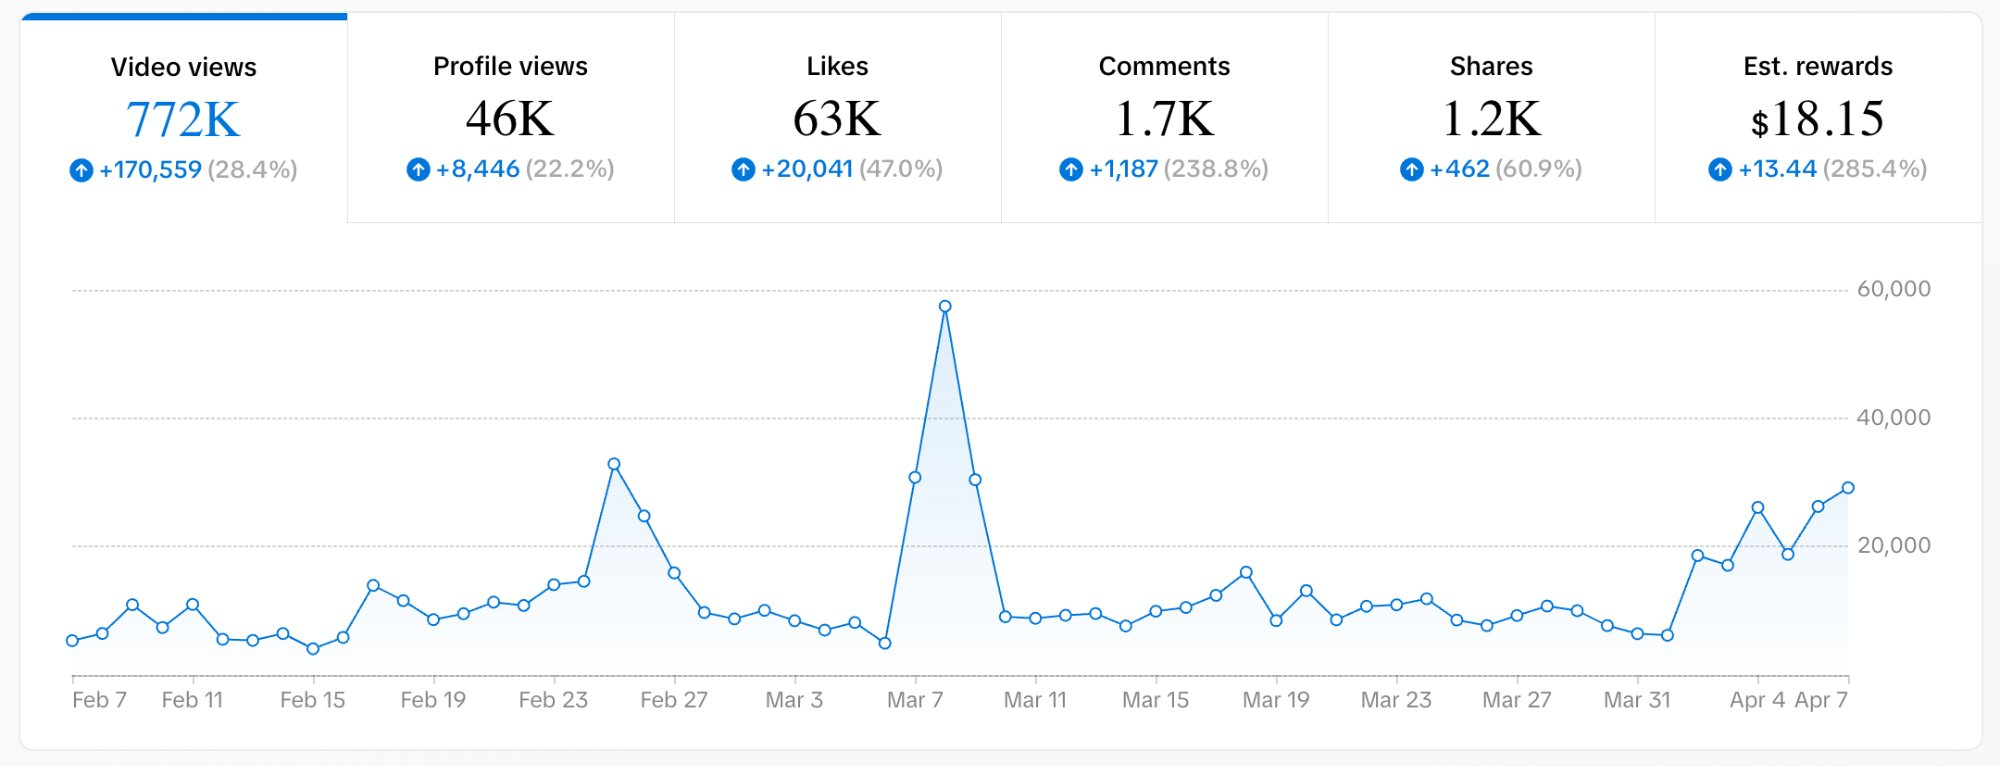
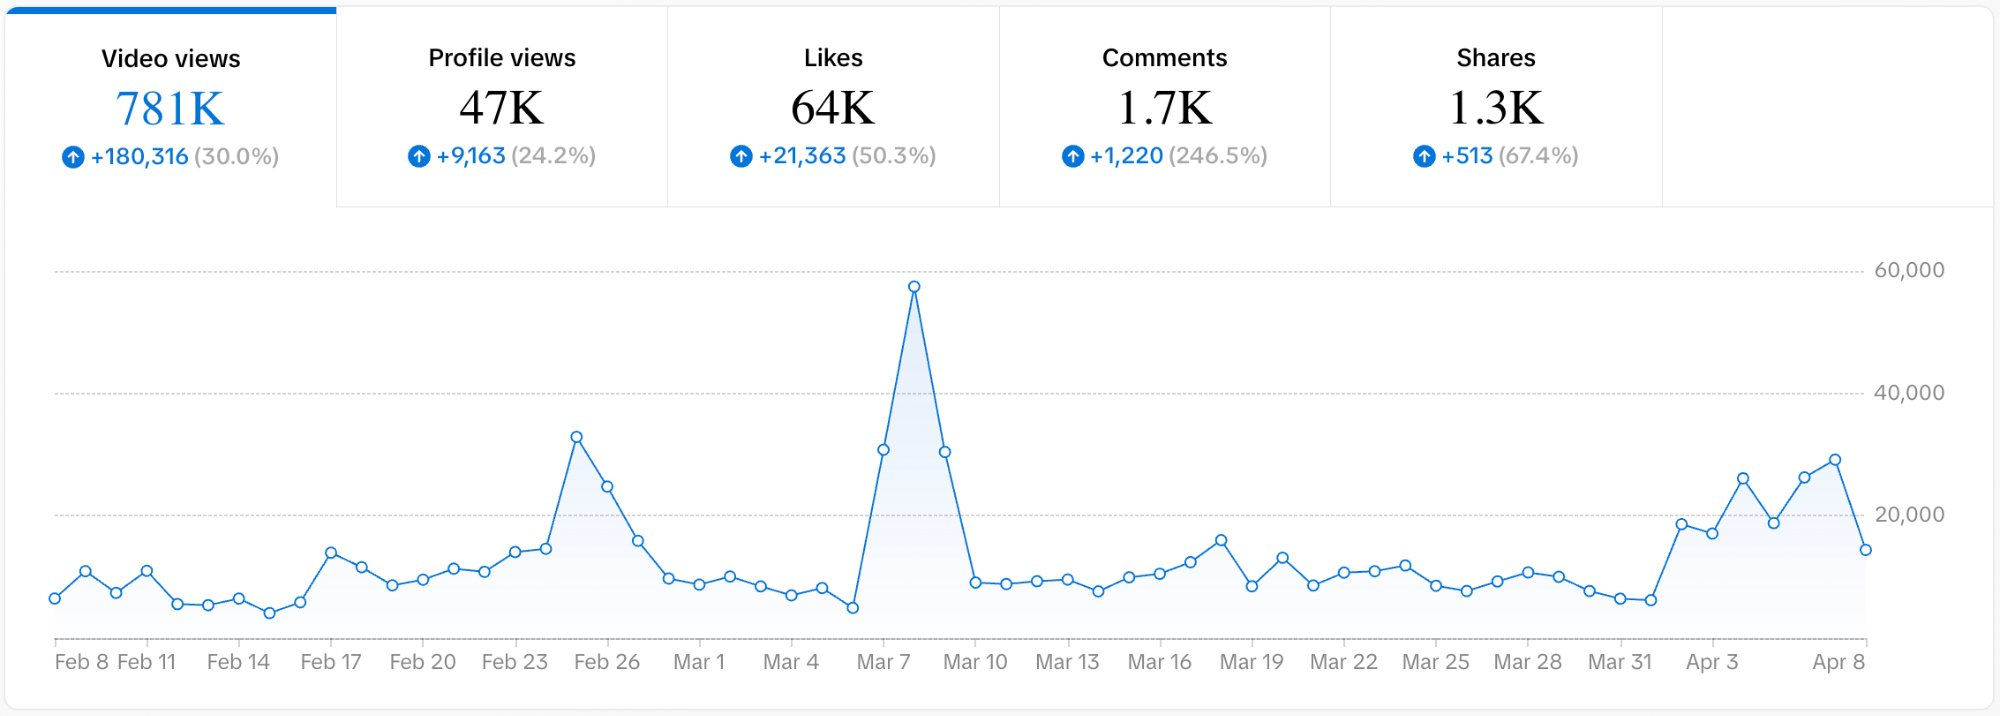
Add files via upload

diff --git a/strategy.html b/strategy.html
@@ -102,7 +102,7 @@
         <div class="platform-name">TikTok</div>
       </div>
       <div class="platform-icon-group">
-        <div class="platform-badge">Feb 7 – Apr 7, 2026</div>
+        <div class="platform-badge">Feb 8 – Apr 8, 2026</div>
         <div class="platform-icon">
           <svg viewBox="0 0 24 24" fill="currentColor">
             <path d="M19.59 6.69a4.83 4.83 0 0 1-3.77-4.25V2h-3.45v13.67a2.89 2.89 0 0 1-2.88 2.5 2.89 2.89 0 0 1-2.89-2.89 2.89 2.89 0 0 1 2.89-2.89c.28 0 .54.04.79.1V9.01a6.33 6.33 0 0 0-.79-.05 6.34 6.34 0 0 0-6.34 6.34 6.34 6.34 0 0 0 6.34 6.34 6.34 6.34 0 0 0 6.33-6.34V8.69a8.18 8.18 0 0 0 4.78 1.52V6.76a4.85 4.85 0 0 1-1.01-.07z"/>
@@ -113,34 +113,34 @@
 
     <div class="kpi-grid">
       <div class="kpi-card">
-        <span class="kpi-value">772K</span>
+        <span class="kpi-value">781K</span>
         <span class="kpi-label">Video Views</span>
-        <span class="kpi-change">+170,559 · +28.4%</span>
+        <span class="kpi-change">+180,316 · +30%</span>
         <span class="kpi-period">60-day period</span>
       </div>
       <div class="kpi-card">
-        <span class="kpi-value">46K</span>
+        <span class="kpi-value">47K</span>
         <span class="kpi-label">Profile Views</span>
-        <span class="kpi-change">+8,446 · +22.2%</span>
+        <span class="kpi-change">+9,163 · +24.2%</span>
         <span class="kpi-period">60-day period</span>
       </div>
       <div class="kpi-card">
-        <span class="kpi-value">63K</span>
+        <span class="kpi-value">64K</span>
         <span class="kpi-label">Likes</span>
-        <span class="kpi-change">+20,041 · +47%</span>
+        <span class="kpi-change">+21,363 · +50.3%</span>
         <span class="kpi-period">60-day period</span>
       </div>
       <div class="kpi-card">
-        <span class="kpi-value">1.2K</span>
+        <span class="kpi-value">1.3K</span>
         <span class="kpi-label">Shares</span>
-        <span class="kpi-change">+462 · +60.9%</span>
+        <span class="kpi-change">+513 · +67.4%</span>
         <span class="kpi-period">60-day period</span>
       </div>
     </div>
 
     <!-- Last 30 day callout -->
     <div class="platform-insight">
-      <strong>Last 30 days (Mar 9 – Apr 7) —</strong> 156,196 total views with 111,021 accounts reached (+4,203.1% growth in reach). 95.8% of views came from non-followers, demonstrating strong organic discovery and content that resonates well beyond an existing audience.
+      <strong>Last 30 days (Mar 9 – Apr 7) —</strong> 781K total video views with likes up 50.3% and shares up 67.4% — content is being actively saved and shared beyond the existing audience. Profile views hit 47K (+24.2%), showing strong top-of-funnel discovery.
     </div>
 
     <div class="platform-graphs">
@@ -151,17 +151,17 @@
         <div class="graph-info">
           <div class="graph-label">60-Day Overview</div>
           <div class="graph-title">Video views, likes, comments & shares</div>
-          <div class="graph-note">Feb 7 – Apr 7, 2026 · TikTok Studio Analytics</div>
+          <div class="graph-note">Feb 8 – Apr 8, 2026 · TikTok Studio Analytics</div>
         </div>
       </div>
       <div class="graph-card">
         <div class="graph-img">
-          <img src="images/tiktok-views.jpg" alt="TikTok last 30 days: 156,196 views, 111,021 accounts reached">
+          <img src="images/tiktok-analytics.png" alt="TikTok video views trend Feb 8 – Apr 8, 2026">
         </div>
         <div class="graph-info">
-          <div class="graph-label">Last 30 Days · Views Breakdown</div>
-          <div class="graph-title">156,196 views · 111,021 accounts reached</div>
-          <div class="graph-note">Mar 9 – Apr 7, 2026 · 95.8% non-follower reach</div>
+          <div class="graph-label">60-Day Trend</div>
+          <div class="graph-title">Daily video view trend — Feb 8 to Apr 8</div>
+          <div class="graph-note">Feb 8 – Apr 8, 2026 · TikTok Studio</div>
         </div>
       </div>
     </div>
@@ -177,7 +177,7 @@
         <div class="platform-name">Instagram</div>
       </div>
       <div class="platform-icon-group">
-        <div class="platform-badge">Mar 9 – Apr 7, 2026</div>
+        <div class="platform-badge">Mar 10 – Apr 8, 2026</div>
         <div class="platform-icon">
           <svg viewBox="0 0 24 24" fill="currentColor">
             <path d="M12 2.163c3.204 0 3.584.012 4.85.07 3.252.148 4.771 1.691 4.919 4.919.058 1.265.069 1.645.069 4.849 0 3.205-.012 3.584-.069 4.849-.149 3.225-1.664 4.771-4.919 4.919-1.266.058-1.644.07-4.85.07-3.204 0-3.584-.012-4.849-.07-3.26-.149-4.771-1.699-4.919-4.92-.058-1.265-.07-1.644-.07-4.849 0-3.204.013-3.583.07-4.849.149-3.227 1.664-4.771 4.919-4.919 1.266-.057 1.645-.069 4.849-.069zM12 0C8.741 0 8.333.014 7.053.072 2.695.272.273 2.69.073 7.052.014 8.333 0 8.741 0 12c0 3.259.014 3.668.072 4.948.2 4.358 2.618 6.78 6.98 6.98C8.333 23.986 8.741 24 12 24c3.259 0 3.668-.014 4.948-.072 4.354-.2 6.782-2.618 6.979-6.98.059-1.28.073-1.689.073-4.948 0-3.259-.014-3.667-.072-4.947-.196-4.354-2.617-6.78-6.979-6.98C15.668.014 15.259 0 12 0zm0 5.838a6.162 6.162 0 1 0 0 12.324 6.162 6.162 0 0 0 0-12.324zM12 16a4 4 0 1 1 0-8 4 4 0 0 1 0 8zm6.406-11.845a1.44 1.44 0 1 0 0 2.881 1.44 1.44 0 0 0 0-2.881z"/>
@@ -188,36 +188,36 @@
 
     <div class="kpi-grid" style="grid-template-columns: repeat(3, 1fr);">
       <div class="kpi-card">
-        <span class="kpi-value">156.2K</span>
+        <span class="kpi-value">284.1K</span>
         <span class="kpi-label">Views</span>
         <span class="kpi-change">↑ Strong upward trend</span>
-        <span class="kpi-period">Mar 9 – Apr 7</span>
+        <span class="kpi-period">Mar 10 – Apr 8</span>
       </div>
       <div class="kpi-card">
-        <span class="kpi-value">20.9K</span>
-        <span class="kpi-label">Interactions</span>
-        <span class="kpi-change">↑ Likes, comments & saves</span>
-        <span class="kpi-period">Mar 9 – Apr 7</span>
+        <span class="kpi-value">190K</span>
+        <span class="kpi-label">Accounts Reached</span>
+        <span class="kpi-change">+7,245.8%</span>
+        <span class="kpi-period">Mar 10 – Apr 8</span>
       </div>
       <div class="kpi-card">
         <span class="kpi-value">614%</span>
         <span class="kpi-label">Top Reel Outperformance</span>
         <span class="kpi-change">↑ vs. previous 5 reels</span>
-        <span class="kpi-period">Mar 9 – Apr 7</span>
+        <span class="kpi-period">Mar 10 – Apr 8</span>
       </div>
     </div>
 
     <div class="platform-insight">
-      <strong>Standout moment —</strong> One reel received 614% more plays than any of the previous 5 reels, demonstrating the ability to create breakout content that dramatically outperforms baseline averages and drives strong organic reach.
+      <strong>Standout growth —</strong> 284,139 views with 190,037 accounts reached — a +7,245.8% increase in reach. 95.8% of views came from non-followers, showing strong organic discovery and content that reaches well beyond the existing audience.
     </div>
 
     <div class="platform-graphs" style="grid-template-columns: 1fr;">
       <div class="graph-card" style="max-width: 420px;">
         <div class="graph-img">
-          <img src="images/ig-analytics.png" alt="Instagram Professional Dashboard: 156.2K views, 20.9K interactions, Mar 9 – Apr 7">
+          <img src="images/ig-analytics.jpg" alt="Instagram views: 284,139 views, 190,037 accounts reached, Mar 10 – Apr 8">
         </div>
         <div class="graph-info">
-          <div class="graph-label">Professional Dashboard · Mar 9 – Apr 7</div>
+          <div class="graph-label">Views · Mar 10 – Apr 8</div>
           <div class="graph-title">Views, interactions & content performance</div>
           <div class="graph-note">@axsoal · Instagram Insights</div>
         </div>
